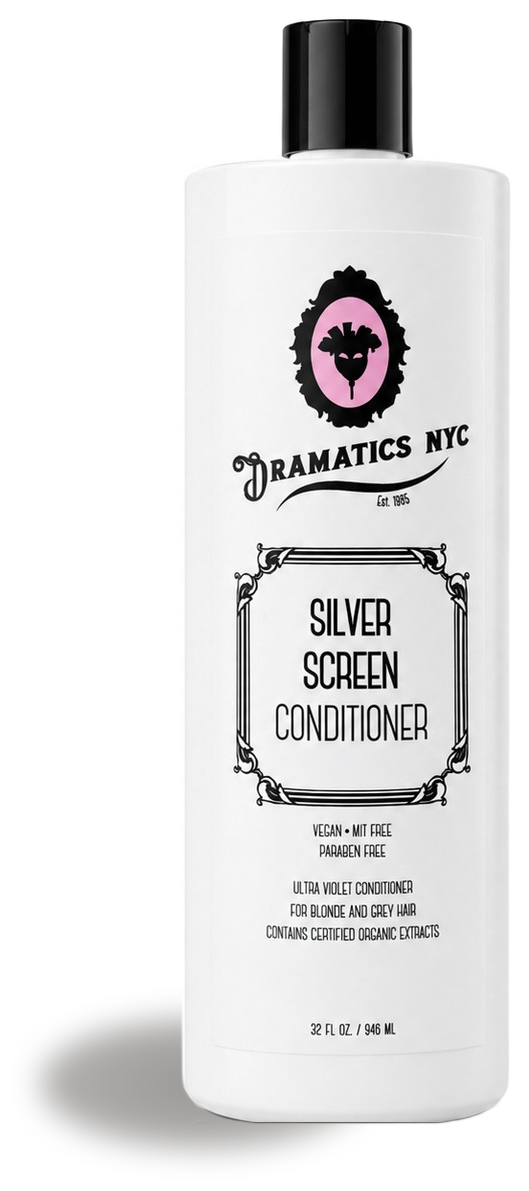
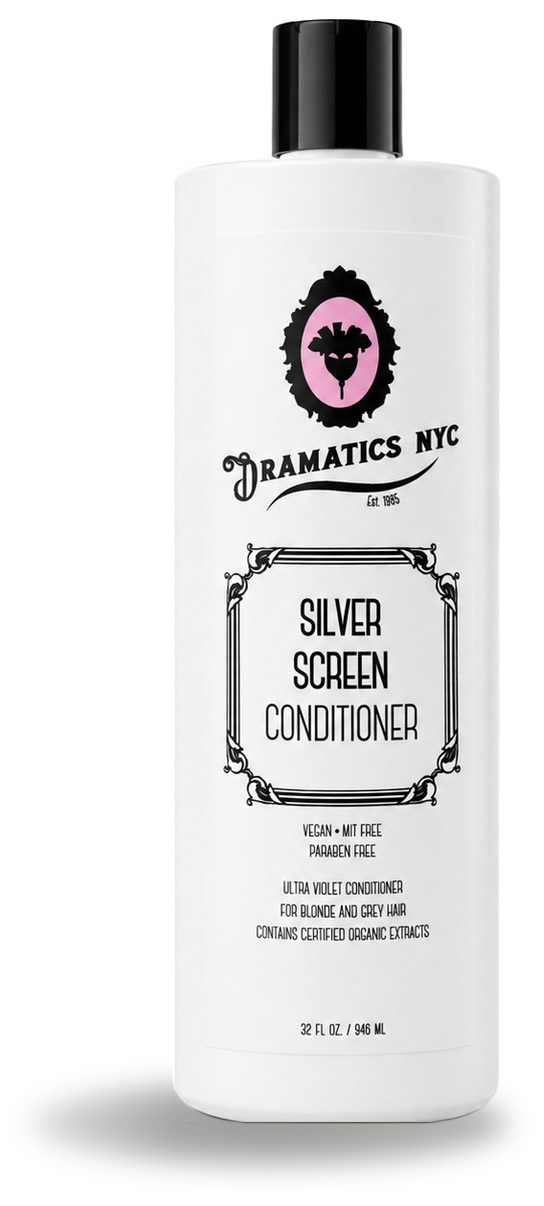
Products: shadow now sits under the whole base and spreads lower-left like the Healthy Color photos (calibrated on Amnesia Haze, Ocean Beach, Diesel Hayes, Skywalker)

Changed region(s): [[0.0605, 0.1243, 0.9679, 0.9941], [0.4839, 0.0, 0.7864, 0.1553], [0.5444, 0.8388, 0.7561, 0.8699]]

diff --git a/scripts/product-shadows.py b/scripts/product-shadows.py
@@ -22,9 +22,9 @@ from scipy.ndimage import binary_fill_holes, binary_dilation, label
 SHADOW_RGB = (50, 46, 43)
 PEAK_ALPHA = 0.50
 LEFT = 0.13      # of body height
-DOWN = 0.025     # of body height
+DOWN = 0.04      # of body height
 FOOT = 0.40      # footprint ellipse height / width
-BLUR = 0.013     # of body height
+BLUR = 0.012     # of body height
 
 
 def body_mask(alpha: np.ndarray) -> np.ndarray:
@@ -70,9 +70,15 @@ def shadow(src: str, dst: str) -> None:
     bw = br - bl + 1
     cx = (bl + br) / 2
 
-    ew, eh = bw, FOOT * bw
-    ecx = cx - LEFT * h
-    ecy = bottom - eh / 2 + DOWN * h
+    # The shadow runs from LEFT*h beyond the base's left edge to just past its
+    # right edge, and hangs DOWN*h below the base line, so the product sits on
+    # it instead of floating next to it.
+    x_left = bl - LEFT * h
+    x_right = br + 0.01 * h
+    ew = x_right - x_left
+    eh = max(0.075 * h, 0.25 * bw)
+    ecx = (x_left + x_right) / 2
+    ecy = bottom + DOWN * h - eh / 2
     blur = float(max(5, BLUR * h))
 
     pad = int(LEFT * h + blur * 4 + 8)
@@ -80,7 +86,9 @@ def shadow(src: str, dst: str) -> None:
     yy, xx = np.mgrid[0:H, 0:W]
     r2 = ((xx - (ecx + pad)) / (ew / 2)) ** 2 + ((yy - ecy) / (eh / 2)) ** 2
     r = np.sqrt(np.clip(r2, 0, None))
-    sh = np.where(r <= 1, PEAK_ALPHA * (0.75 + 0.25 * (1 - r)), 0.0)
+    # darkest against the body, fading toward the far left tip
+    fade = np.clip((xx - (x_left + pad)) / max(1.0, LEFT * h), 0, 1)
+    sh = np.where(r <= 1, PEAK_ALPHA * (0.45 + 0.55 * fade) * (0.7 + 0.3 * (1 - r)), 0.0)
     mask = Image.fromarray((sh * 255).astype(np.uint8)).filter(ImageFilter.GaussianBlur(blur))
 
     out = Image.new("RGBA", (W, H), (0, 0, 0, 0))
